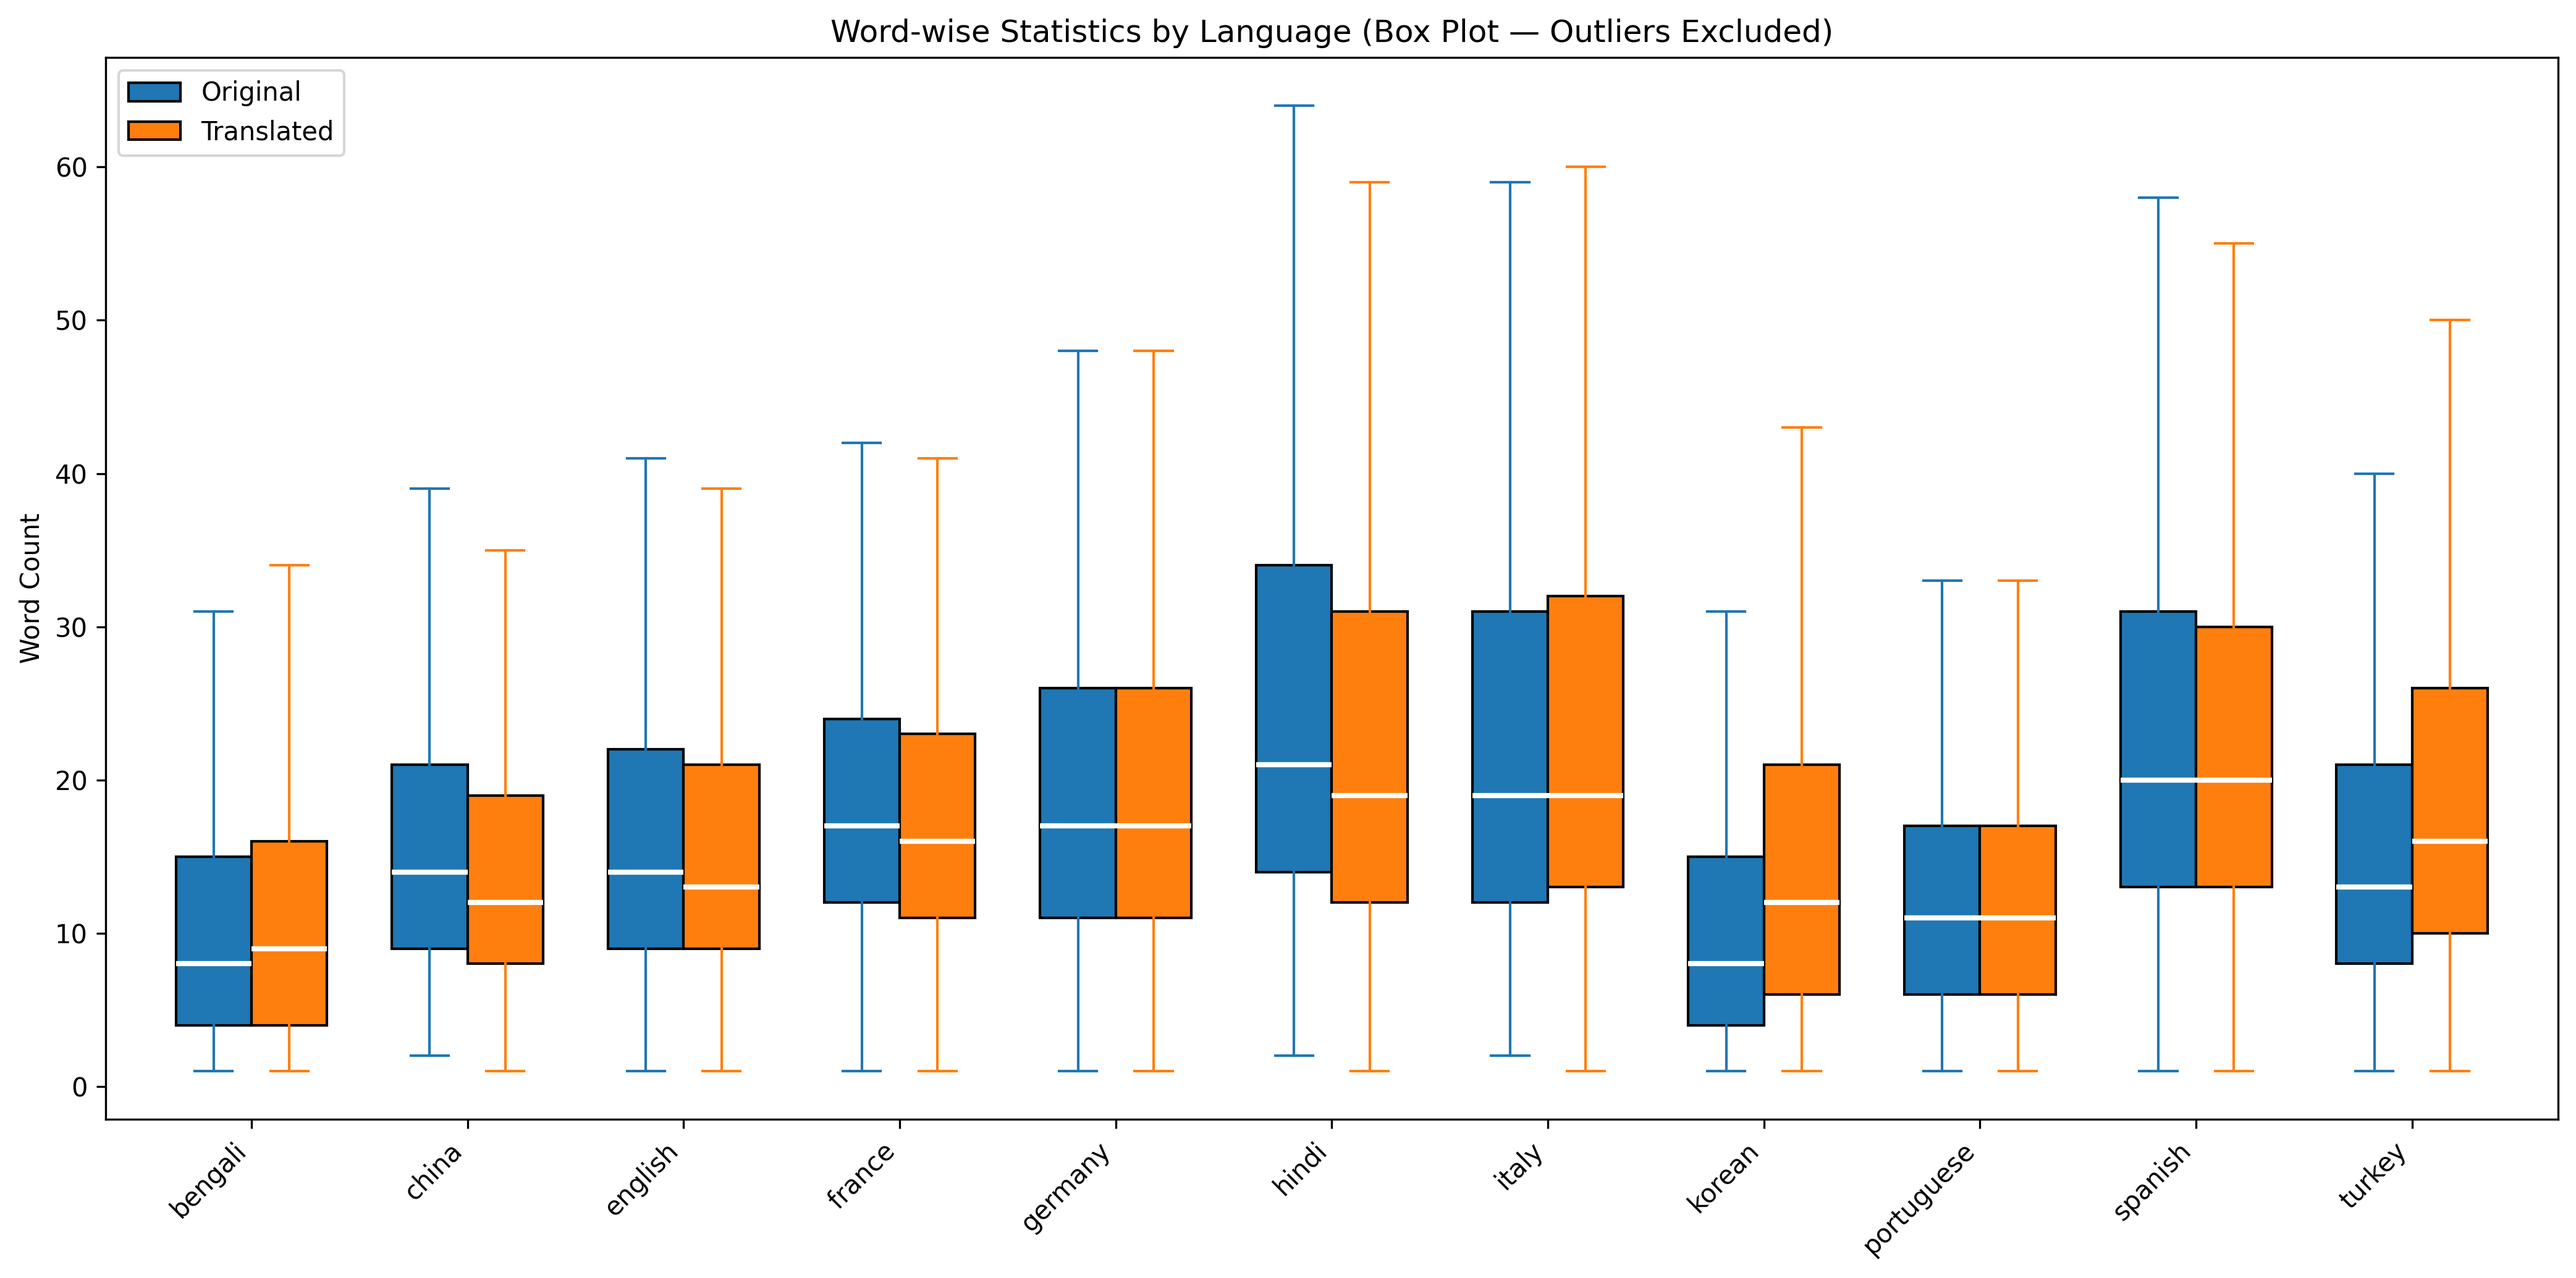
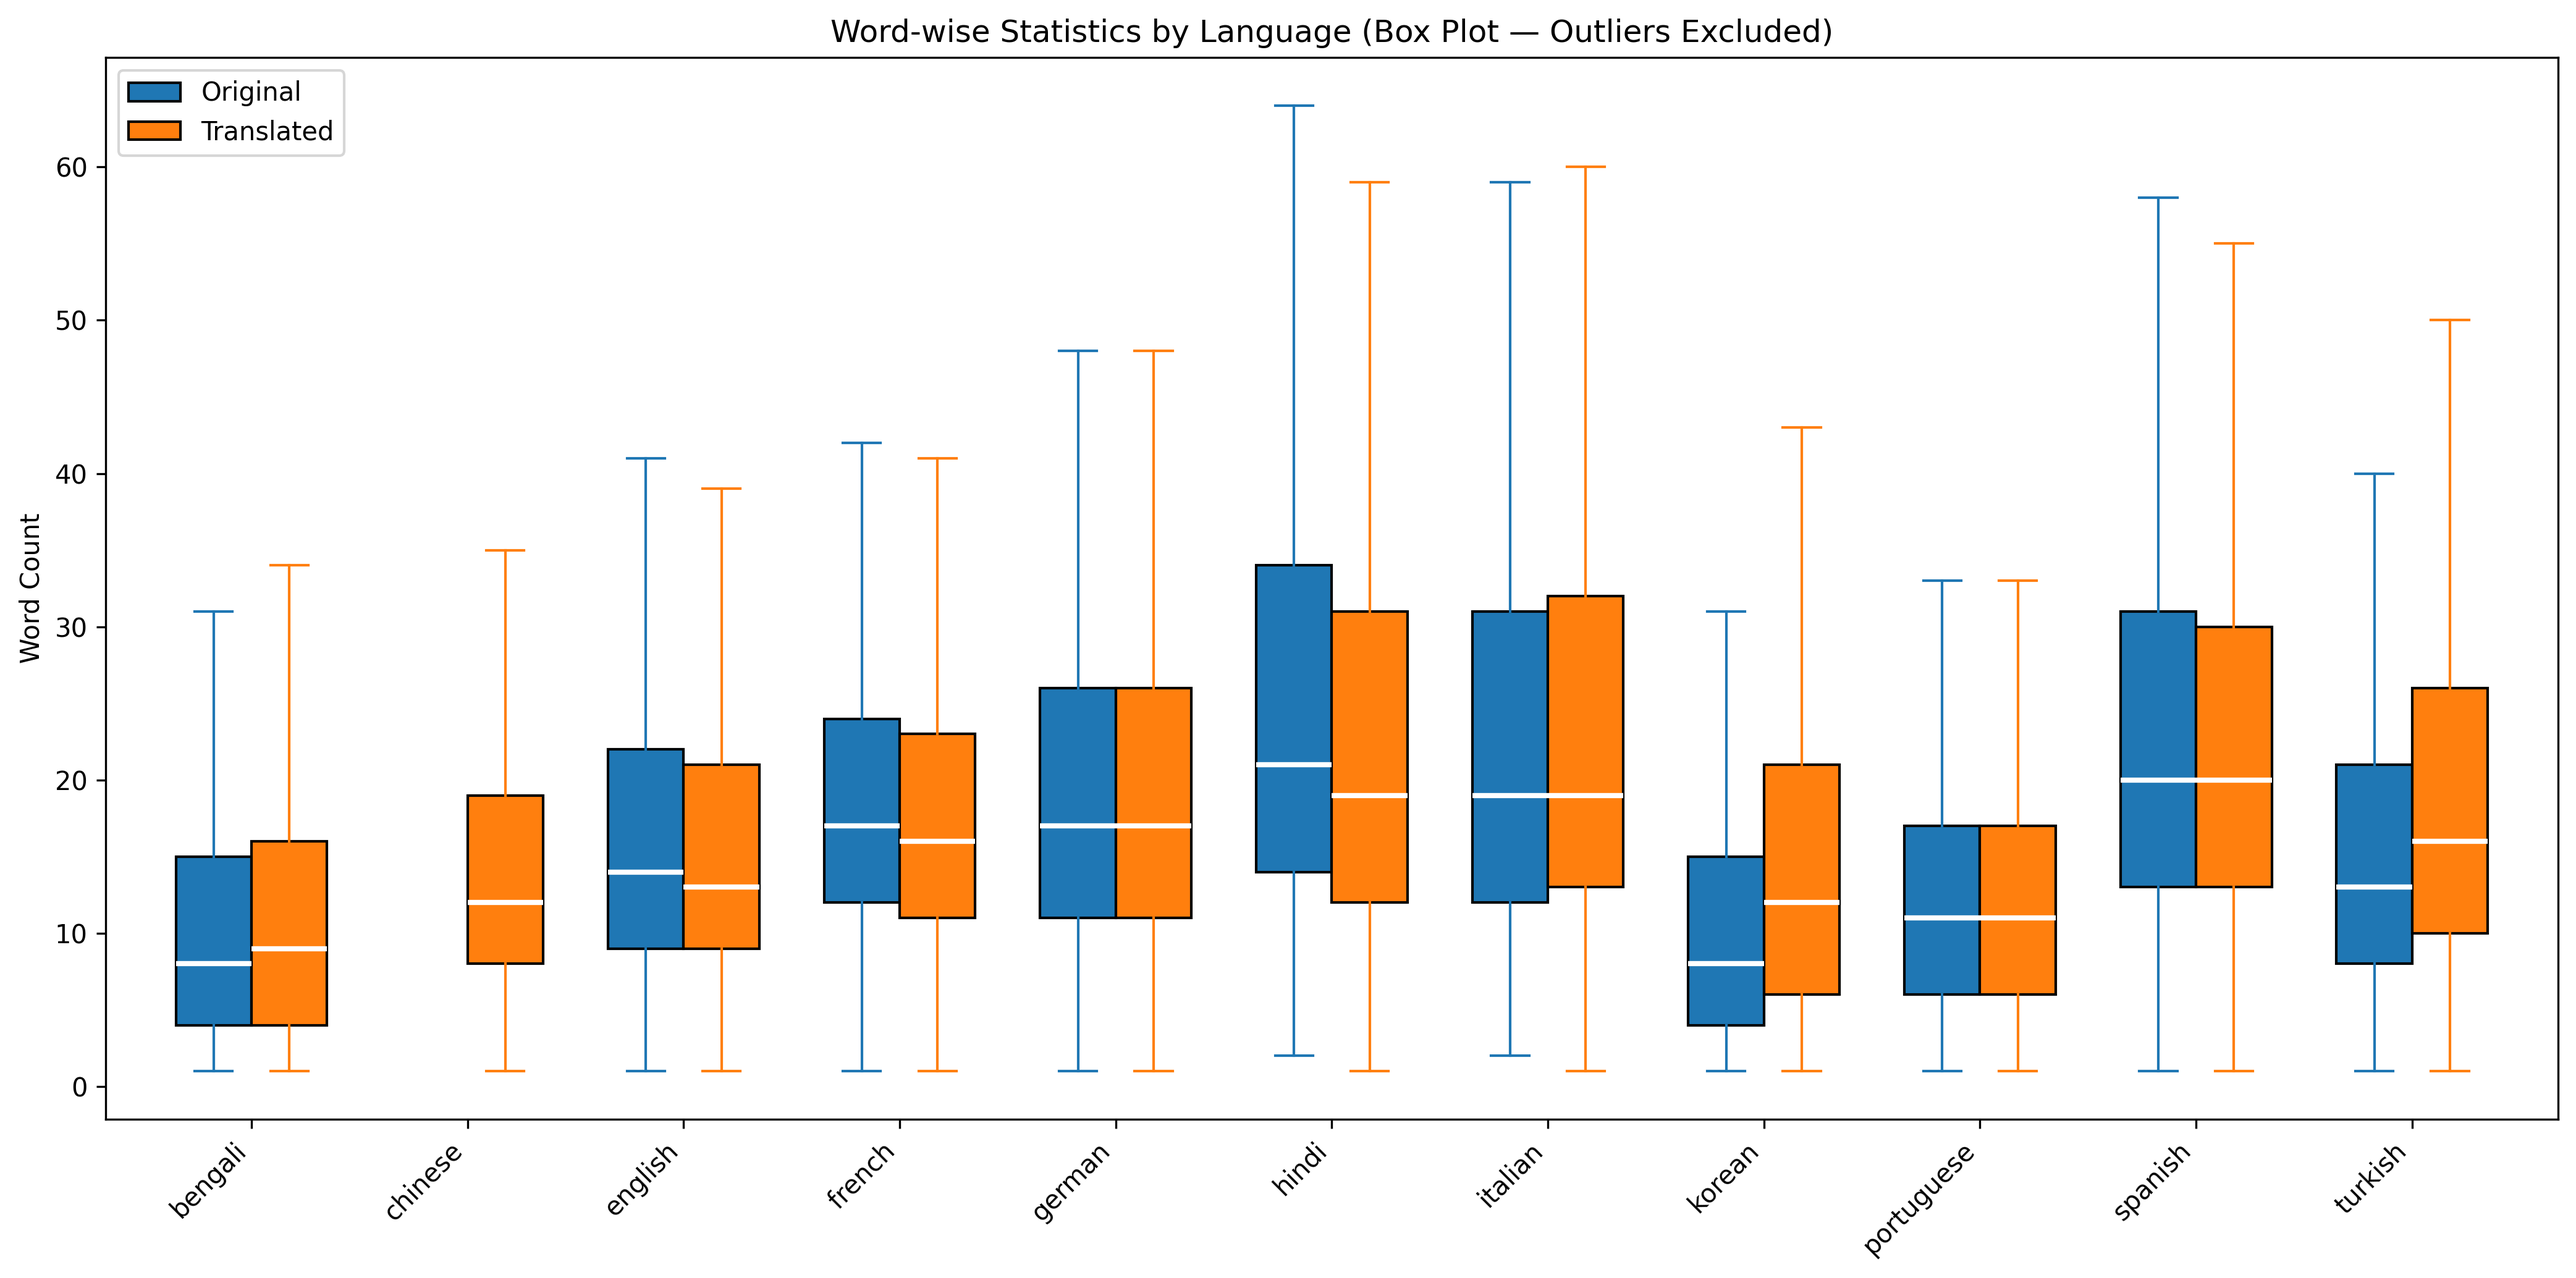
update plots fix language

diff --git a/gen_stat_data.py b/gen_stat_data.py
@@ -32,7 +32,23 @@ data = [item for item in data if 'translated' in item and isinstance(item.get('t
 
 # Total records
 total_records = len(data)
+LANGUAGE_FIX_MAP = {
+    "english": "english",
+    "spanish": "spanish",
+    "germany": "german",
+    "china": "chinese",
+    "turkey": "turkish",
+    "hindi": "hindi",
+    "korean": "korean",
+    "italy": "italian",
+    "france": "french",
+    "bengali": "bengali",
+    "portuguese": "portuguese",
+}
 
+for item in data:
+    item['language'] = LANGUAGE_FIX_MAP[item['language']]
+    
 # Language distribution
 languages = [item['language'] for item in data]
 lang_distribution = Counter(languages)
@@ -146,7 +162,7 @@ wedges, texts, autotexts = plt.pie(
     lang_distribution.values(),
     labels=lang_distribution.keys(),
     autopct='%1.1f%%',
-    textprops={'fontsize': 16, 'weight': 'bold'},
+    textprops={'fontsize': 20, 'weight': 'bold'},
     colors=colors,
     startangle=90
 )
@@ -155,7 +171,7 @@ wedges, texts, autotexts = plt.pie(
 for autotext in autotexts:
     autotext.set_position((autotext.get_position()[0] * 1.1, autotext.get_position()[1] * 1.1))
 
-plt.title('Language Distribution Percentage', fontsize=18)
+plt.title('Language Distribution Percentage', fontsize=25)
 plt.tight_layout()
 plt.savefig('stats/language_distribution.png')
 # ============================================================================
@@ -164,24 +180,44 @@ plt.savefig('stats/language_distribution.png')
 to_drop = ['Total','Min','Avg','Max']
 plot_df = label_stats_df[~label_stats_df['Language'].isin(to_drop)]
 
-# 2. Set Language as index and plot only the real languages
+# 2. Create a square-ish figure
+fig, ax = plt.subplots(figsize=(6, 6))  # width=6, height=6
+
+# 3. Plot onto that Axes
 plot_df.set_index('Language')[['Label 1','Label 0']].plot(
     kind='bar',
     stacked=True,
-    figsize=(12,6)
+    ax=ax
 )
 
-plt.title('Label Distribution by Language (Stacked)')
-plt.xlabel('Languages')
-plt.ylabel('Count')
+# 4. Increase font sizes
+ax.set_title('Label Distribution by Language (Stacked)', fontsize=18)
+ax.set_xlabel('Languages', fontsize=16)
+ax.set_ylabel('Count', fontsize=16)
+ax.tick_params(axis='x', labelsize=14, rotation=45)
+ax.tick_params(axis='y', labelsize=14)
+ax.legend(title='Label', fontsize=14, title_fontsize=16)
+
+# Calculate the total count for each language
+for i, (lang, total) in enumerate(zip(plot_df['Language'], plot_df['Total'])):
+    # Calculate the percentage of the grand total
+    percentage = 100 * total / plot_df['Total'].sum()
+    # Add text annotation above each bar - smaller font and rotated 30 degrees
+    ax.text(i, total + 10, f"{percentage:.1f}%", 
+            ha='center', va='bottom', fontsize=10, fontweight='bold',
+            rotation=30)
+
 plt.tight_layout()
 plt.savefig('stats/label_distribution_stacked.png')
 plt.close()
+
+
 # ============================================================================
 
 # Word-wise statistics with min, max, avg, total per language (and Total at end)
 word_stats = []
 for lang in set(languages):
+
     texts = [item['text'] for item in data if item['language'] == lang]
     translated_texts = [item['translated'] for item in data if item['language'] == lang]
     
